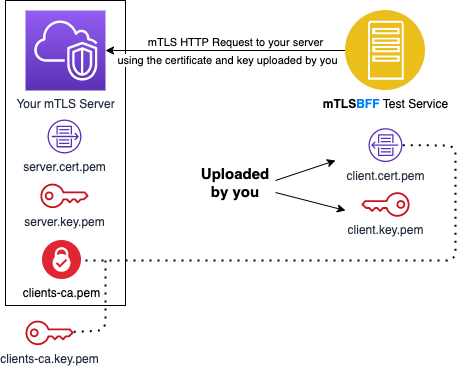
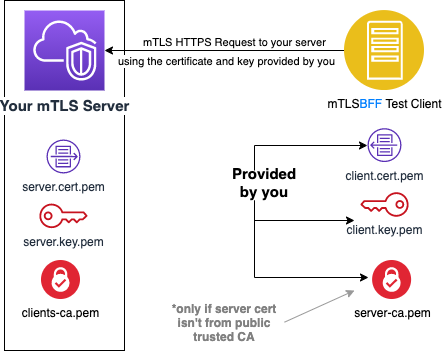
feat: add client test page with certificate download and instructions

diff --git a/app/pages/check-client/index.js b/app/pages/check-client/index.js
@@ -1,11 +1,47 @@
 import Head from "next/head";
+import Image from "next/image";
+import { faCopy } from "@fortawesome/fontawesome-free-regular";
+import { FontAwesomeIcon } from "@fortawesome/react-fontawesome";
+
 import { serverSideTranslations } from "next-i18next/serverSideTranslations";
+import { Trans } from "next-i18next";
 import { useTranslation } from "next-i18next";
 
 import Layout from "../../components/layout";
+import { useState } from "react";
 
 export default function Client() {
   const { t } = useTranslation("common");
+
+  const copyTestServerAddress = () => {
+    return navigator.clipboard.writeText("https://sidecar.mtls.labbs.com.br");
+  };
+  const copyCurlCommand = () => {
+    return navigator.clipboard.writeText(
+      "curl --cacert ./server-ca.pem --key ./client-key.pem --cert ./client.pem -k https://sidecar.mtls.labbs.com.br"
+    );
+  };
+
+  const CopyButton = ({ onCopy }) => {
+    const [copyStatus, setCopyStatus] = useState("off");
+
+    const toggleCopy = async () => {
+      try {
+        await onCopy();
+        setCopyStatus("done");
+        setTimeout(() => setCopyStatus("off"), 1000);
+      } catch (error) {
+        setCopyStatus("off");
+      }
+    };
+    const textColor = copyStatus === "done" ? "text-green-600" : "text-gray-600";
+    return (
+      <button onClick={toggleCopy}>
+        <FontAwesomeIcon icon={faCopy} className={textColor} width={16} />
+      </button>
+    );
+  };
+
   return (
     <Layout>
       <Head>
@@ -19,23 +55,71 @@ export default function Client() {
             <span className="text-blue-600 font-bold">TEST</span>
           </h1>
 
+          <p className="col-span-1 md:col-span-2 max-w-screen-lg mx-auto text-center text-2xl">
+            <Trans i18nKey="client-header-tagline" />
+          </p>
+
+          <div className="border-r border-b border-gray-200 rounded p-8">
+            <Image src="/mTLS-client-test.png" alt="client requesting diagram" height={349} width={475} />
+          </div>
+
+          <div className="border-l border-b border-gray-200 rounded p-8">
+            <Trans i18nKey="steps-followed-to-the-test-server" />:
+            <ol className="ml-4 mt-2 list-decimal">
+              <li>
+                <Trans i18nKey="download-the-client-key-and-certificate">
+                  Download the client <a href="/demo/certs/client-key.pem">key</a> and <a href="/">certificate</a> you will use in your
+                  client application
+                </Trans>
+                :
+                <ul className="ml-4 text-blue-600 underline list-disc">
+                  <li>
+                    <a href="/demo/certs/client-key.pem">{t("download-client-key")}</a>
+                  </li>
+                  <li>
+                    <a href="/demo/certs/client.pem">{t("download-client-certificate")}</a>
+                  </li>
+                </ul>
+              </li>
+              <li>
+                <Trans i18nKey="download-server-ca-to-add-to-trust" />:
+                <ul className="ml-4 text-blue-600 underline list-disc">
+                  <li>
+                    <a href="/demo/certs/server-ca.pem">{t("download-server-ca")}</a>
+                  </li>
+                </ul>
+              </li>
+              <li>
+                <Trans i18nKey="send-the-request-to-test-server-at" />
+                <span className="flex flex-row">
+                  <strong className="ml-1 mr-1">https://sidecar.mtls.labbs.com.br</strong>
+                  <CopyButton onCopy={copyTestServerAddress} />
+                </span>
+              </li>
+            </ol>
+            <div className="mt-2">
+              <Trans i18nKey="curl-to-test-certificates" components={{ code: <code /> }} />
+              <div className="bg-gray-50 p-3 mt-2">
+                <code className="text-sm">
+                  $ curl --cacert ./server-ca.pem --key ./client-key.pem --cert ./client.pem -k https://sidecar.mtls.labbs.com.br
+                </code>
+                <div className="flex justify-end mt-2">
+                  <CopyButton onCopy={copyCurlCommand} />
+                </div>
+              </div>
+            </div>
+          </div>
+
           <div className="col-span-1 md:col-span-2 max-w-screen-lg mx-auto text-center text-2xl">
             <p className="mb-4">
               {t("get-a-sample-mtls-server-at")}{" "}
-              <a href="github.com/bancodobrasil/api-mtls-sidecar-proxy" className="underline text-blue-600" target="_blank" rel="noreferer">
-                bancodobrasil/api-mtls-sidecar-proxy
-              </a>
-            </p>
-
-            <p className="text-sm">
-              {t("contribute-to-mtls-bff-project-at")}{" "}
               <a
-                href="https://github.com/bancodobrasil/mtls-best-friend"
+                href="https://github.com/bancodobrasil/api-mtls-sidecar-proxy"
                 className="underline text-blue-600"
                 target="_blank"
                 rel="noreferer"
               >
-                bancodobrasil/mtls-best-friend
+                bancodobrasil/api-mtls-sidecar-proxy
               </a>
             </p>
           </div>

diff --git a/app/components/footer.js b/app/components/footer.js
@@ -4,8 +4,19 @@ export default function Footer() {
   const { t } = useTranslation();
 
   return (
-    <footer className="mt-8 mb-4 pt-4 flex justify-center items-center border-t">
-      <a href="https://www.bb.com.br" target="_blank" rel="noopener noreferrer" className="flex flex-col justify-center items-center">
+    <footer className="mt-8 mb-4 pt-4 flex flex-col justify-center items-center border-t">
+      <p className="text-sm mb-4">
+        {t("contribute-to-mtls-bff-project-at")}{" "}
+        <a href="https://github.com/bancodobrasil/mtls-best-friend" className="underline text-gray-600" target="_blank" rel="noreferer">
+          bancodobrasil/mtls-best-friend
+        </a>
+      </p>
+      <a
+        href="https://www.bb.com.br"
+        target="_blank"
+        rel="noopener noreferrer"
+        className="flex flex-col justify-center items-center text-sm"
+      >
         {t("brought-to-you-by")} <img src="/logo_labbs.png" alt="Logo BB" className="logo mt-2 w-8" />
       </a>
     </footer>

diff --git a/app/pages/sidecar/index.js b/app/pages/sidecar/index.js
@@ -95,10 +95,10 @@ services:
             </div>
 
             <div className="mt-2">
-              <Trans i18nKey="curl-to-test-instructions" />
+              <Trans i18nKey="curl-to-test-instructions" components={{ code: <code /> }} />
               <div className="bg-gray-50 p-3 mt-2">
                 <code className="text-sm">
-                  $ curl --cacert ./clients-ca.pem --key ./client.key.pem --cert ./client.pem -k https://localhost
+                  $ curl --cacert ./server-ca.pem --key ./client-key.pem --cert ./client.pem -k https://localhost
                 </code>
               </div>
             </div>

diff --git a/app/pages/ambassador/index.js b/app/pages/ambassador/index.js
@@ -23,7 +23,7 @@ export default function Ambassador() {
             <p className="mb-4">
               {t("check-a-sample-implementation-at")}{" "}
               <a
-                href="github.com/bancodobrasil/api-mtls-ambassador-gateway"
+                href="https://github.com/bancodobrasil/api-mtls-ambassador-gateway"
                 className="underline text-blue-600"
                 target="_blank"
                 rel="noreferer"
